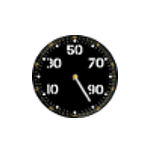
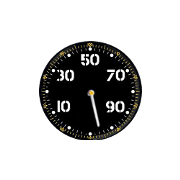
nopeusmittari toimii

Changed region(s): [[0.2133, 0.2133, 0.8, 0.8], [0.6933, 0.6933, 0.72, 0.72]]

diff --git a/canvas.js b/canvas.js
@@ -21,13 +21,13 @@ var oldSy2 = 0;
 var vaihdekuva = new Image();
 vaihdekuva.src = "vaihde1.png";
 var mittari = new Image();
-vaihdekuva.src = "mittari21.png";
+mittari.src = "mittari20.png";
 //LiitetÃ¯Â¿Â½Ã¯Â¿Â½n myÃ¯Â¿Â½hemmin car luokkaan
 
 var audi = new Image();
 audi.src = "audiR8auto.png";
 auto = new car("audiR8auto.png");
-var lentokone = new plane("lentokone.png");
+//lentokone = new plane("lentokone.png");
 var rengas = new Image();
 rengas.src = "audiR8pyora.png";
 
@@ -98,7 +98,7 @@ function animate(time) {
 
                 ctx.fillText(auto.speed, 10, 50);
                 ctx.drawImage(vaihdekuva, 695, 5);
-                ctx.drawImage(mittari, 540, 5);
+                ctx.drawImage(mittari, 540, -32);
  
                 drawRotatedImage(rengas, auto.rengas1x, auto.rengas1y, sx);
                 drawRotatedImage(rengas, auto.rengas2x, auto.rengas2y, sx);
@@ -189,25 +189,74 @@ function animate(time) {
 		//hill1.draw();
 		lastTime = time - (delta % interval);
 
+		if(auto.gear == 1){
+			vaihdekuva.src = "vaihde1.png";	
+		} else if(auto.gear == 1.3){
+			vaihdekuva.src = "vaihde2.png";
+		} else if(auto.gear == 1.6){
+			vaihdekuva.src = "vaihde3.png";
+		} else if(auto.gear == 1.9){
+			vaihdekuva.src = "vaihde4.png";
+		} else if(auto.gear == 2.2){
+			vaihdekuva.src = "vaihde5.png";
+		}
+		ctx.drawImage(vaihdekuva, 695, 5);
+
+		if (auto.speed == 0){
+            mittari.src = "mittari0.png";
+		} else if(auto.speed <= 3){
+			mittari.src = "mittari1.png";	
+		} else if(auto.speed <= 5){
+			mittari.src = "mittari2.png";
+		} else if(auto.speed <= 8){
+			mittari.src = "mittari3.png";
+		} else if(auto.speed <= 10){
+			mittari.src = "mittari4.png";
+		} else if(auto.speed <= 13){
+			mittari.src = "mittari5.png";
+		} else if(auto.speed <= 15){
+			mittari.src = "mittari6.png";
+		} else if(auto.speed <= 18){
+			mittari.src = "mittari7.png";
+		} else if(auto.speed <= 20){
+			mittari.src = "mittari8.png";
+		} else if(auto.speed <= 23){
+			mittari.src = "mittari9.png";
+		} else if(auto.speed <= 25){
+			mittari.src = "mittari10.png";
+		} else if(auto.speed <= 28){
+			mittari.src = "mittari11.png";
+		} else if(auto.speed <= 30){
+			mittari.src = "mittari12.png";
+		} else if(auto.speed <= 33){
+			mittari.src = "mittari13.png";
+		} else if(auto.speed <= 35){
+			mittari.src = "mittari14.png";
+		} else if(auto.speed <= 38){
+			mittari.src = "mittari15.png";
+		} else if(auto.speed <= 40){
+			mittari.src = "mittari16.png";
+		} else if(auto.speed <= 43){
+			mittari.src = "mittari17.png";
+		} else if(auto.speed <= 45){
+			mittari.src = "mittari18.png";
+		} else if(auto.speed <= 48){
+			mittari.src = "mittari19.png";
+		}else if(auto.speed <= 50){
+			mittari.src = "mittari20.png";
+		} else if(auto.speed <= 60){
+			mittari.src = "mittari21.png";
+		} 
+
+		ctx.drawImage(mittari, 540, -32);
+
+
 	}
 
 	// Continue animation loop
 	aniFrame = requestAnimationFrame(animate);
 }
 
-function lineDistance( point1, point2 )
-{
-  var xs = 0;
-  var ys = 0;
-
-  xs = point2.x - point1.x;
-  xs = xs * xs;
-
-  ys = point2.y - point1.y;
-  ys = ys * ys;
-
-  return Math.sqrt( xs + ys );
-}
 
 
 $(document).ready(function() {
